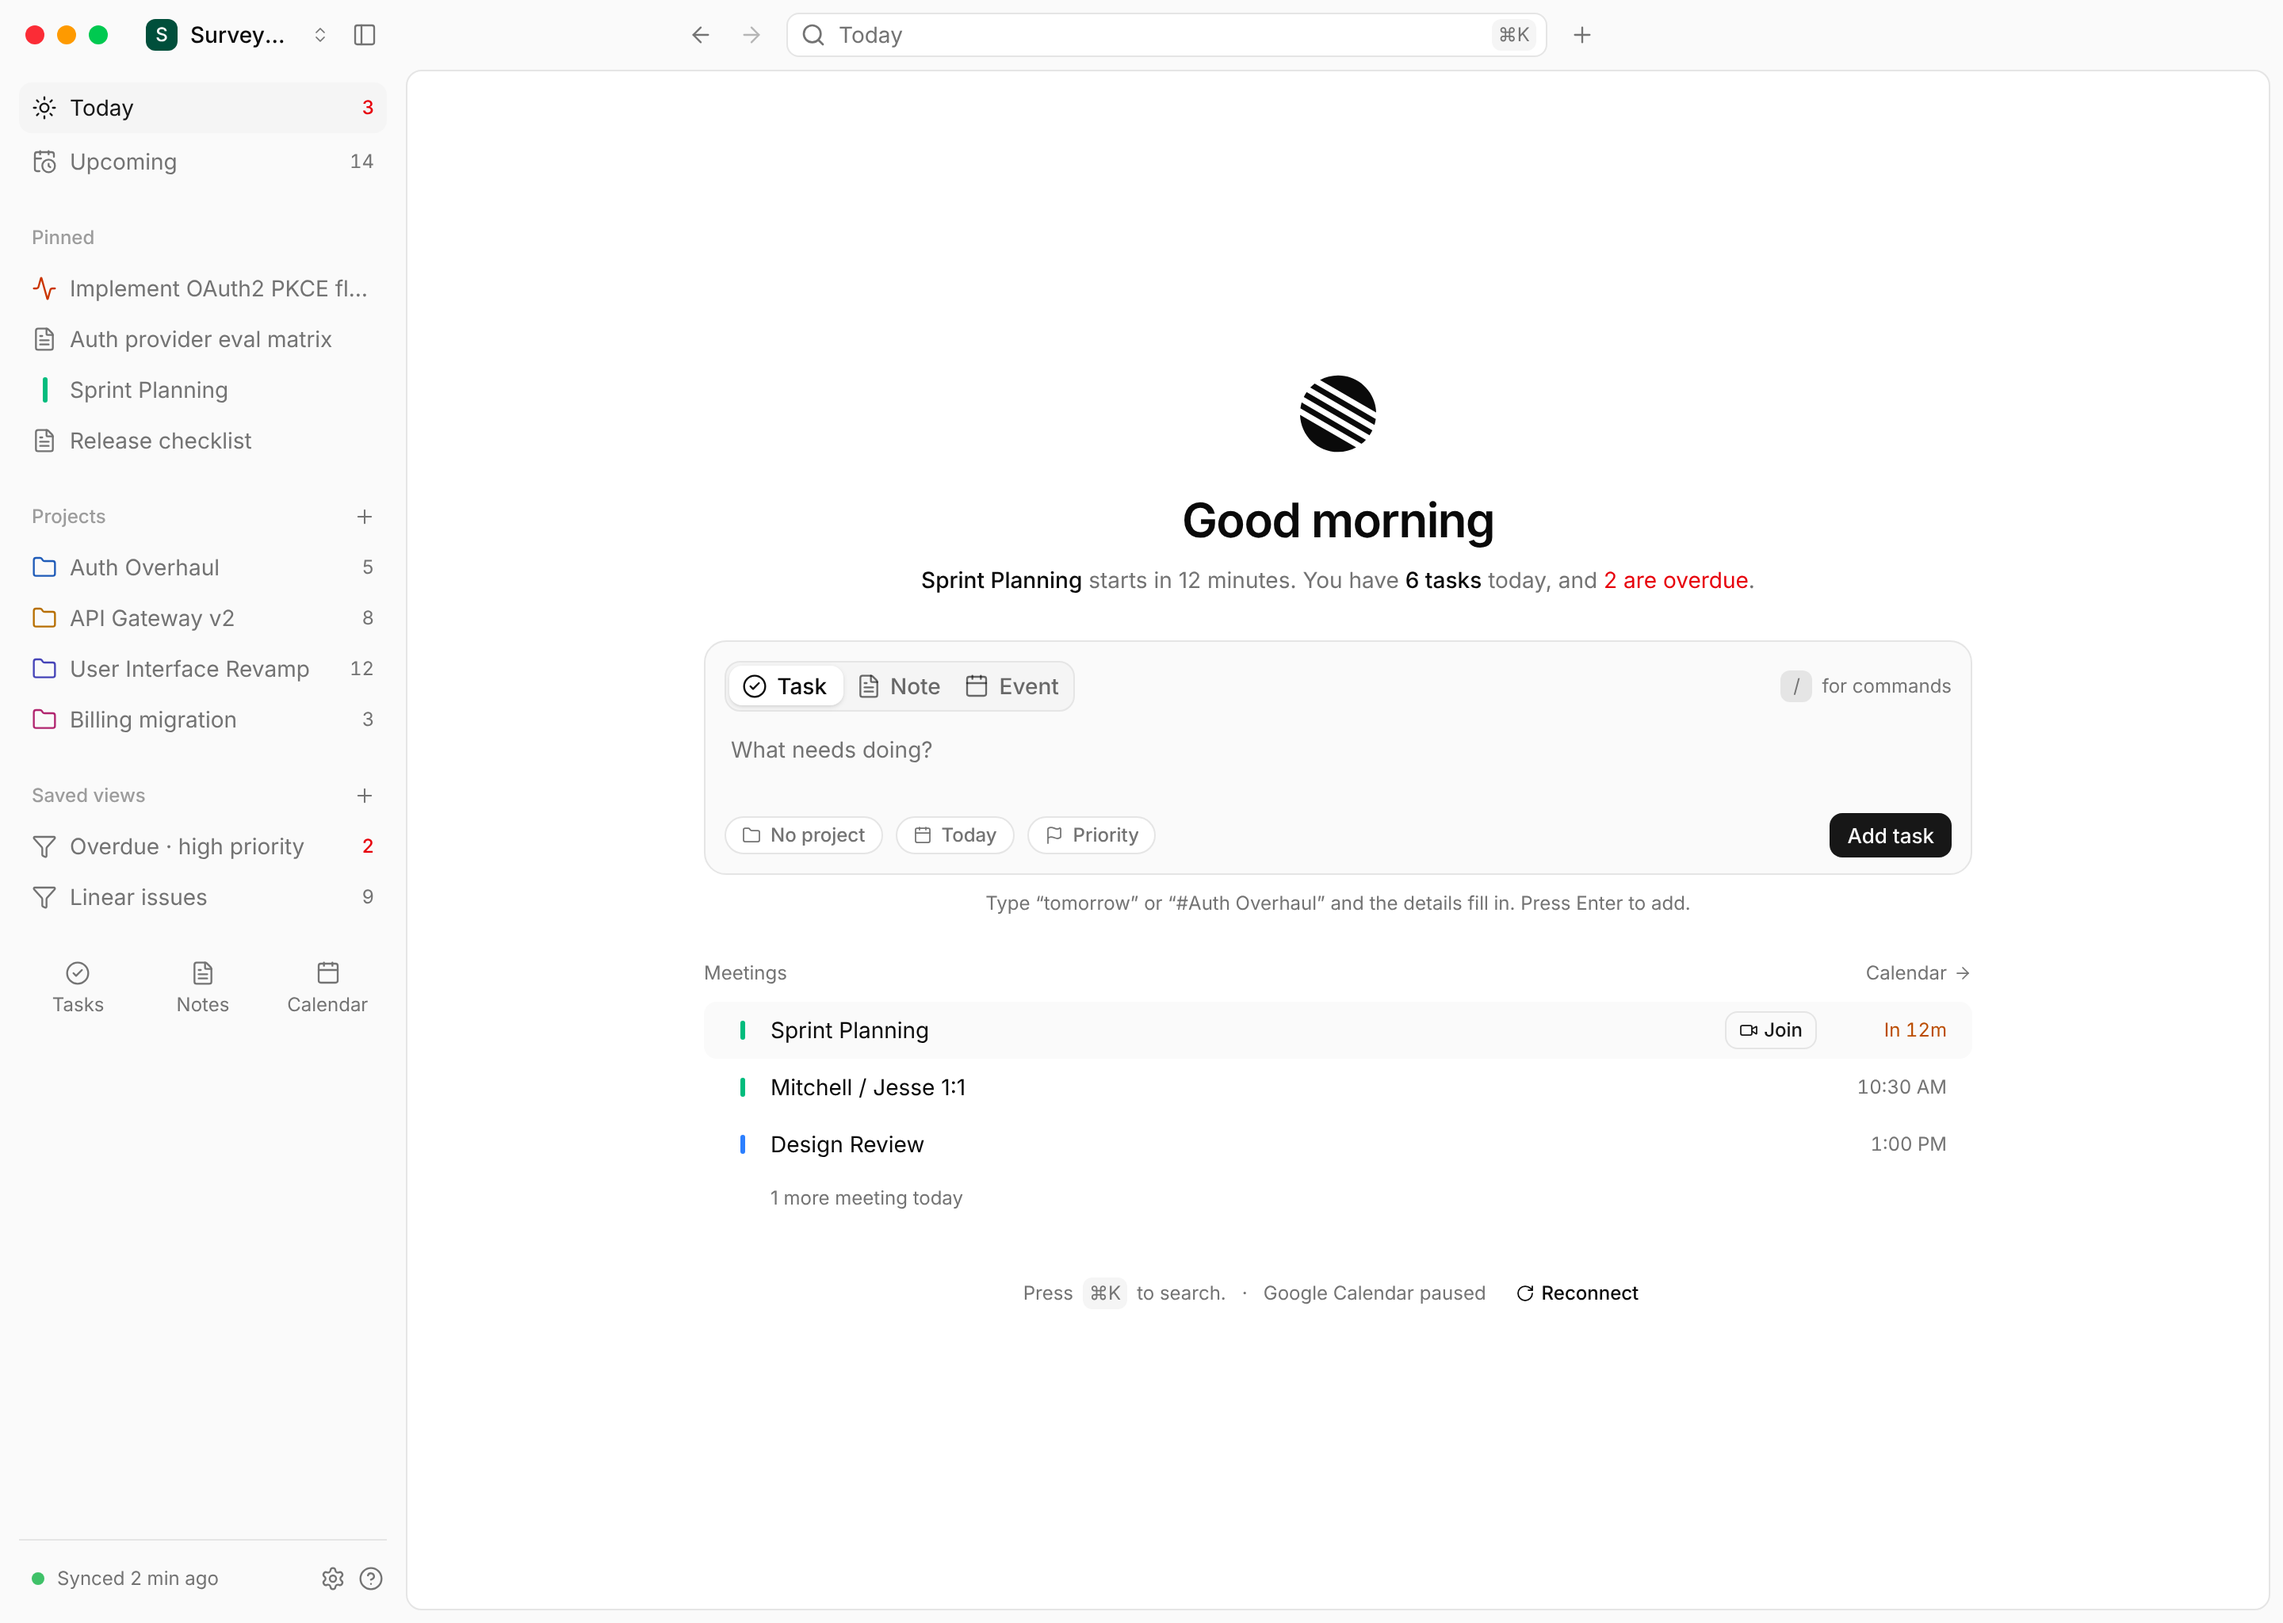
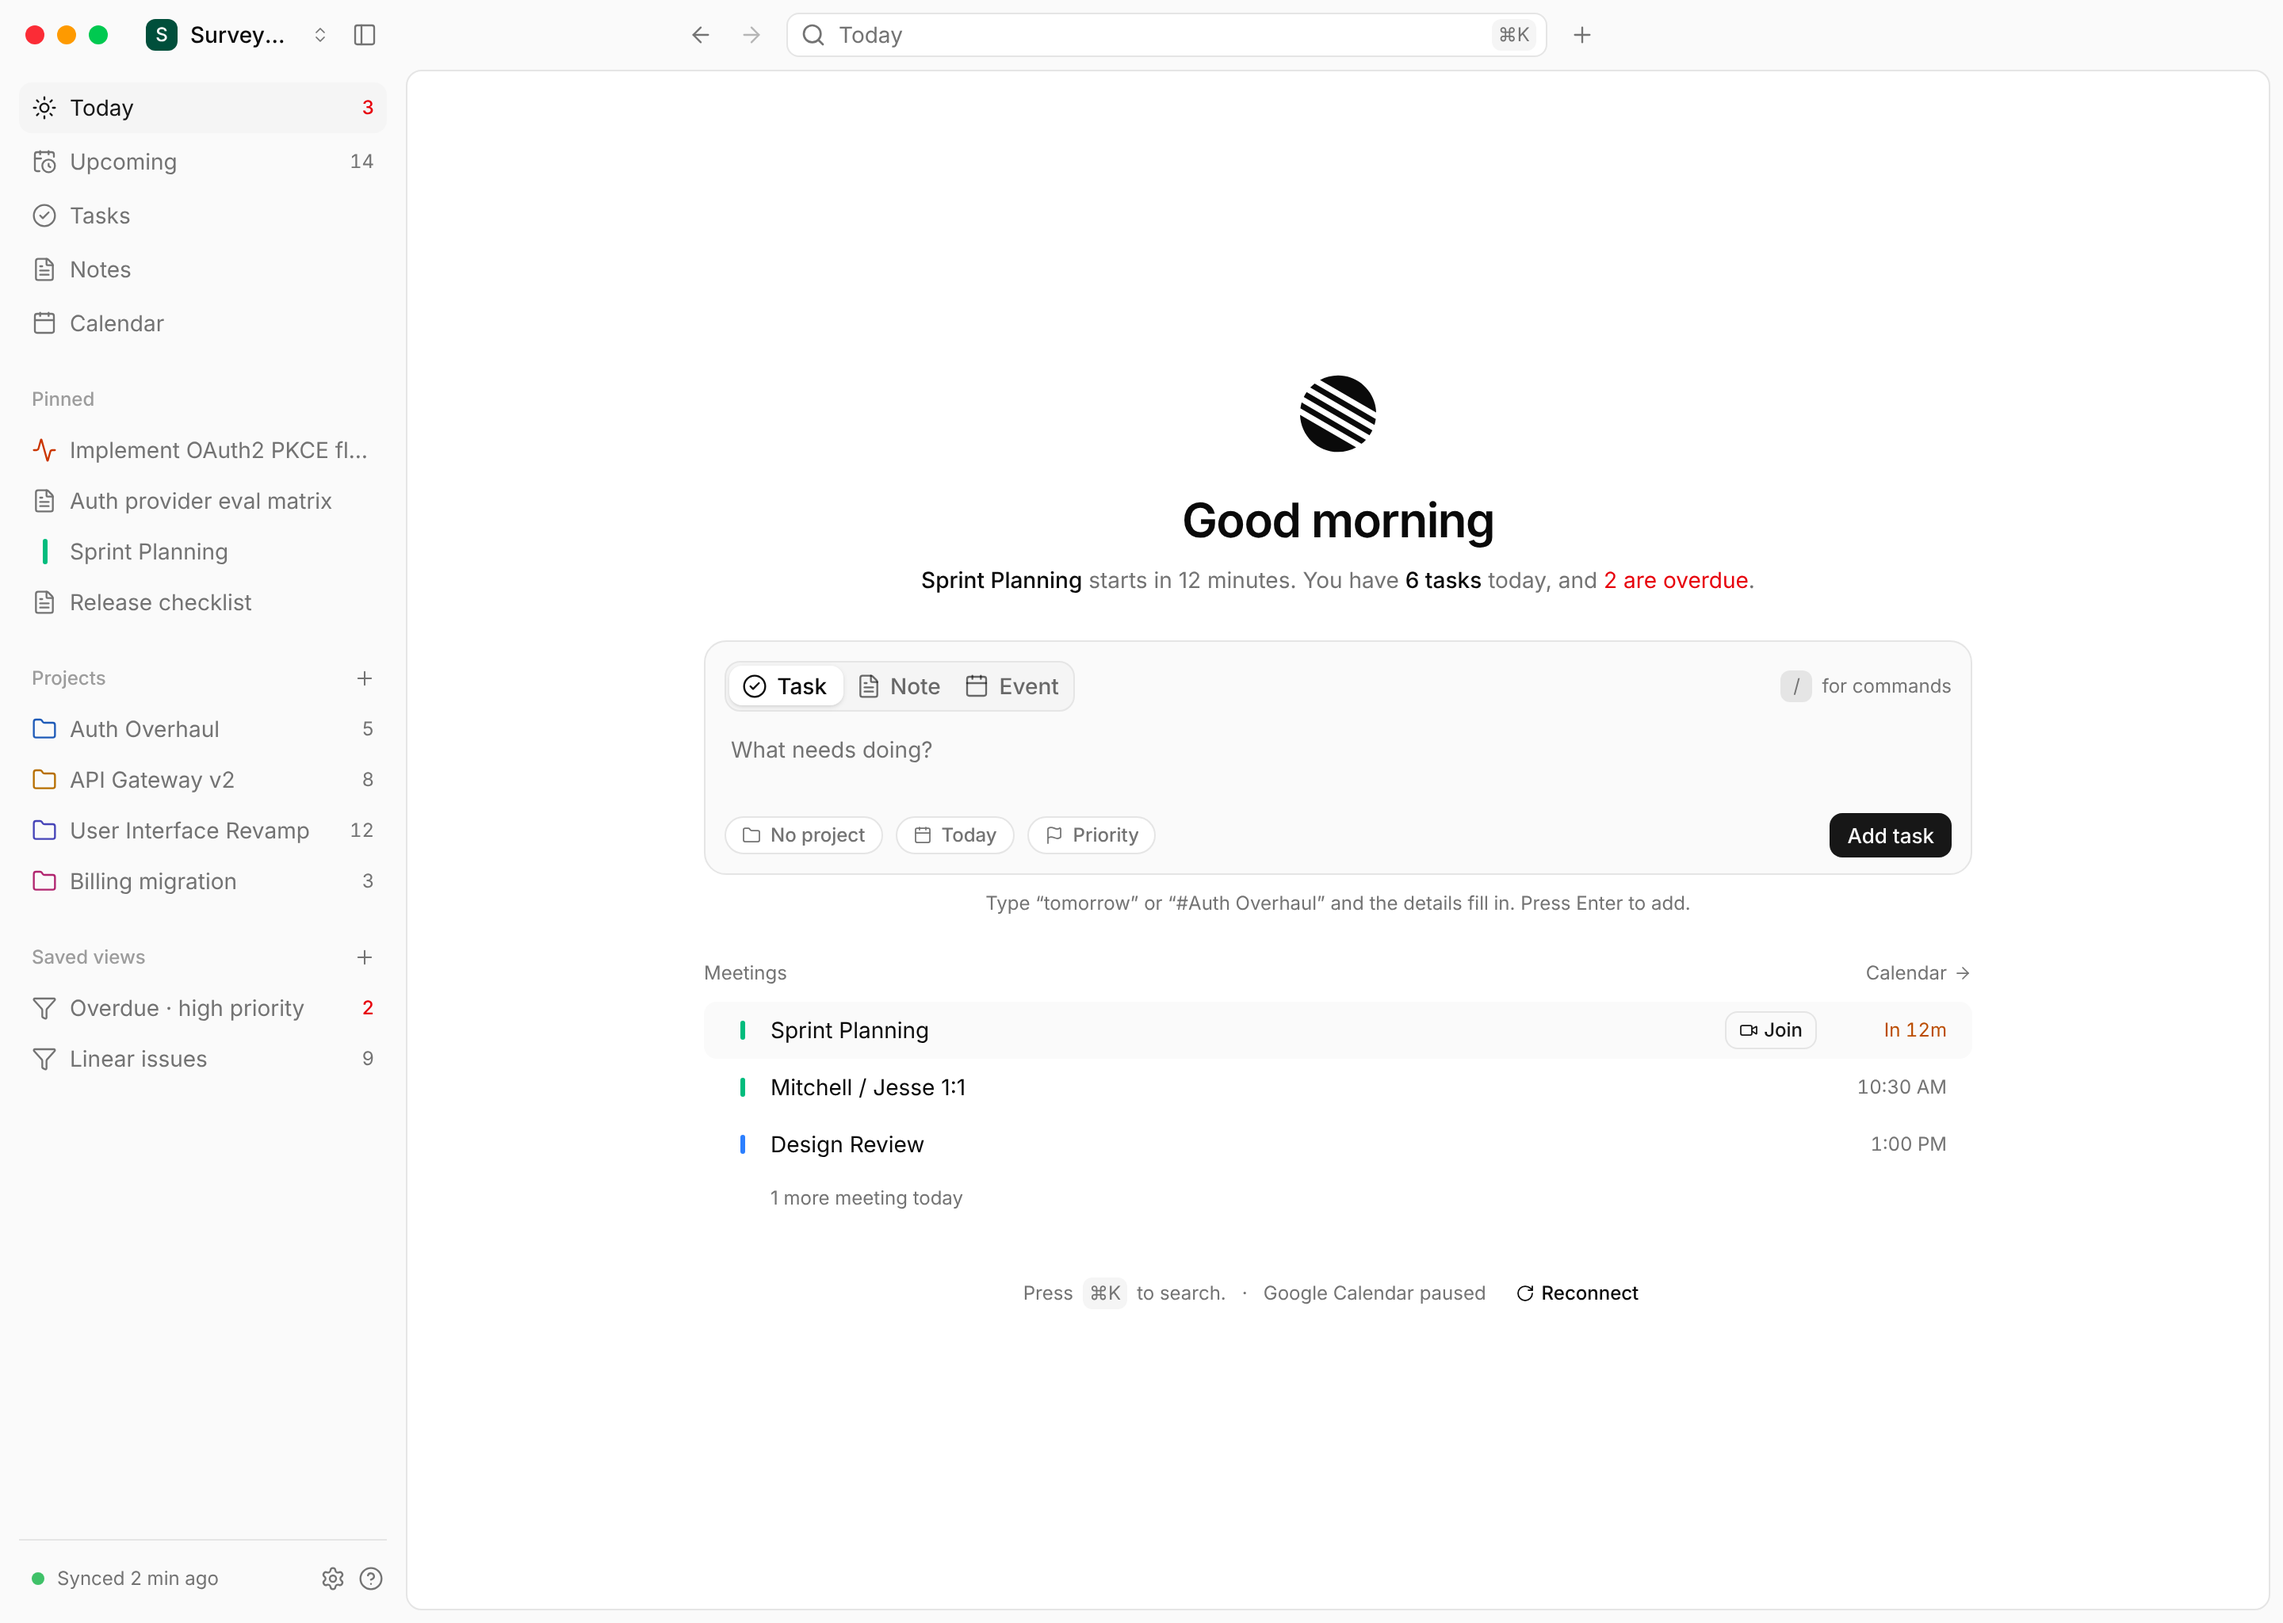
Sidebar mock: Tasks, Notes and Calendar as ordinary rows
They sit under Today and Upcoming in the top group; the tile row stays as
the LibraryAsTiles story for comparison.

Claude-Session: https://claude.ai/code/session_01P34MGbizv5JoWDVMWf7x61

Changed region(s): [[0.0, 0.125, 0.1562, 0.6562]]

diff --git a/src/renderer/components/screens/SidebarRedesign/RedesignSidebar.tsx b/src/renderer/components/screens/SidebarRedesign/RedesignSidebar.tsx
@@ -6,7 +6,7 @@
  * - Pinned replaces Favorites: no cap, ordered by hand (drag), stable under the cursor.
  * - Projects is the spine: active projects with their colour and open-task count, "+" on hover.
  * - Saved views: task filters (the tasks page's search params) saved by name.
- * - Recents moves to ⌘K's empty state; Tasks, Notes and Calendar become one "all items" row.
+ * - Recents moves to ⌘K's empty state; Tasks, Notes and Calendar stay as rows under Upcoming.
  * - The footer is one line: sync dot, Settings and Help (Trash moves into Settings).
  */
 import type { ReactNode } from 'react';
@@ -76,7 +76,15 @@ export interface RedesignSidebarProps {
   /** show a pinned row mid-drag, with the line where it will land */
   dragging?: boolean;
   sync?: 'synced' | 'syncing' | 'error';
+  /** Tasks, Notes and Calendar: ordinary rows under Upcoming (default), or a row of tiles at the end */
+  library?: 'rows' | 'tiles';
 }
+
+const LIBRARY = [
+  ['Tasks', CircleCheck],
+  ['Notes', FileText],
+  ['Calendar', Calendar],
+] as const;
 
 function CountedItem({
   row,
@@ -149,6 +157,7 @@ export function RedesignSidebar({
   hover,
   dragging,
   sync = 'synced',
+  library = 'rows',
 }: RedesignSidebarProps) {
   const pinned = dragging
     ? [PINNED[0], PINNED[2], PINNED[1], PINNED[3]] // "Sprint Planning" lifted, moving up
@@ -165,6 +174,12 @@ export function RedesignSidebar({
             row={{ label: 'Upcoming', icon: CalendarClock, count: 14 }}
             active={active === 'Upcoming'}
           />
+          {library === 'rows' &&
+            LIBRARY.map(([label, icon]) => (
+              <SidebarItem key={label} icon={icon} active={active === label}>
+                {label}
+              </SidebarItem>
+            ))}
         </SidebarGroup>
 
         <SidebarGroup label="Pinned">
@@ -201,25 +216,21 @@ export function RedesignSidebar({
           ))}
         </div>
 
-        <div className={styles.library} role="group" aria-label="All items">
-          {(
-            [
-              ['Tasks', CircleCheck],
-              ['Notes', FileText],
-              ['Calendar', Calendar],
-            ] as const
-          ).map(([label, icon]) => (
-            <button
-              key={label}
-              type="button"
-              className={styles.libraryItem}
-              data-active={active === label ? '' : undefined}
-            >
-              <Icon icon={icon} size={16} />
-              {label}
-            </button>
-          ))}
-        </div>
+        {library === 'tiles' && (
+          <div className={styles.library} role="group" aria-label="All items">
+            {LIBRARY.map(([label, icon]) => (
+              <button
+                key={label}
+                type="button"
+                className={styles.libraryItem}
+                data-active={active === label ? '' : undefined}
+              >
+                <Icon icon={icon} size={16} />
+                {label}
+              </button>
+            ))}
+          </div>
+        )}
       </SidebarContent>
 
       <div className={styles.footer}>

diff --git a/src/renderer/components/screens/SidebarRedesign/SidebarRedesign.stories.tsx b/src/renderer/components/screens/SidebarRedesign/SidebarRedesign.stories.tsx
@@ -19,6 +19,13 @@ export const Today: Story = {
   render: () => <HomeScreen title="Today" sidebar={<RedesignSidebar active="Today" />} />,
 };
 
+/** The earlier try: Tasks, Notes and Calendar as a row of tiles at the end, for comparison. */
+export const LibraryAsTiles: Story = {
+  render: () => (
+    <HomeScreen title="Today" sidebar={<RedesignSidebar active="Today" library="tiles" />} />
+  ),
+};
+
 /** A project picked from the sidebar: its tasks; pointing at another project shows its "+". */
 export const Project: Story = {
   render: () => (
